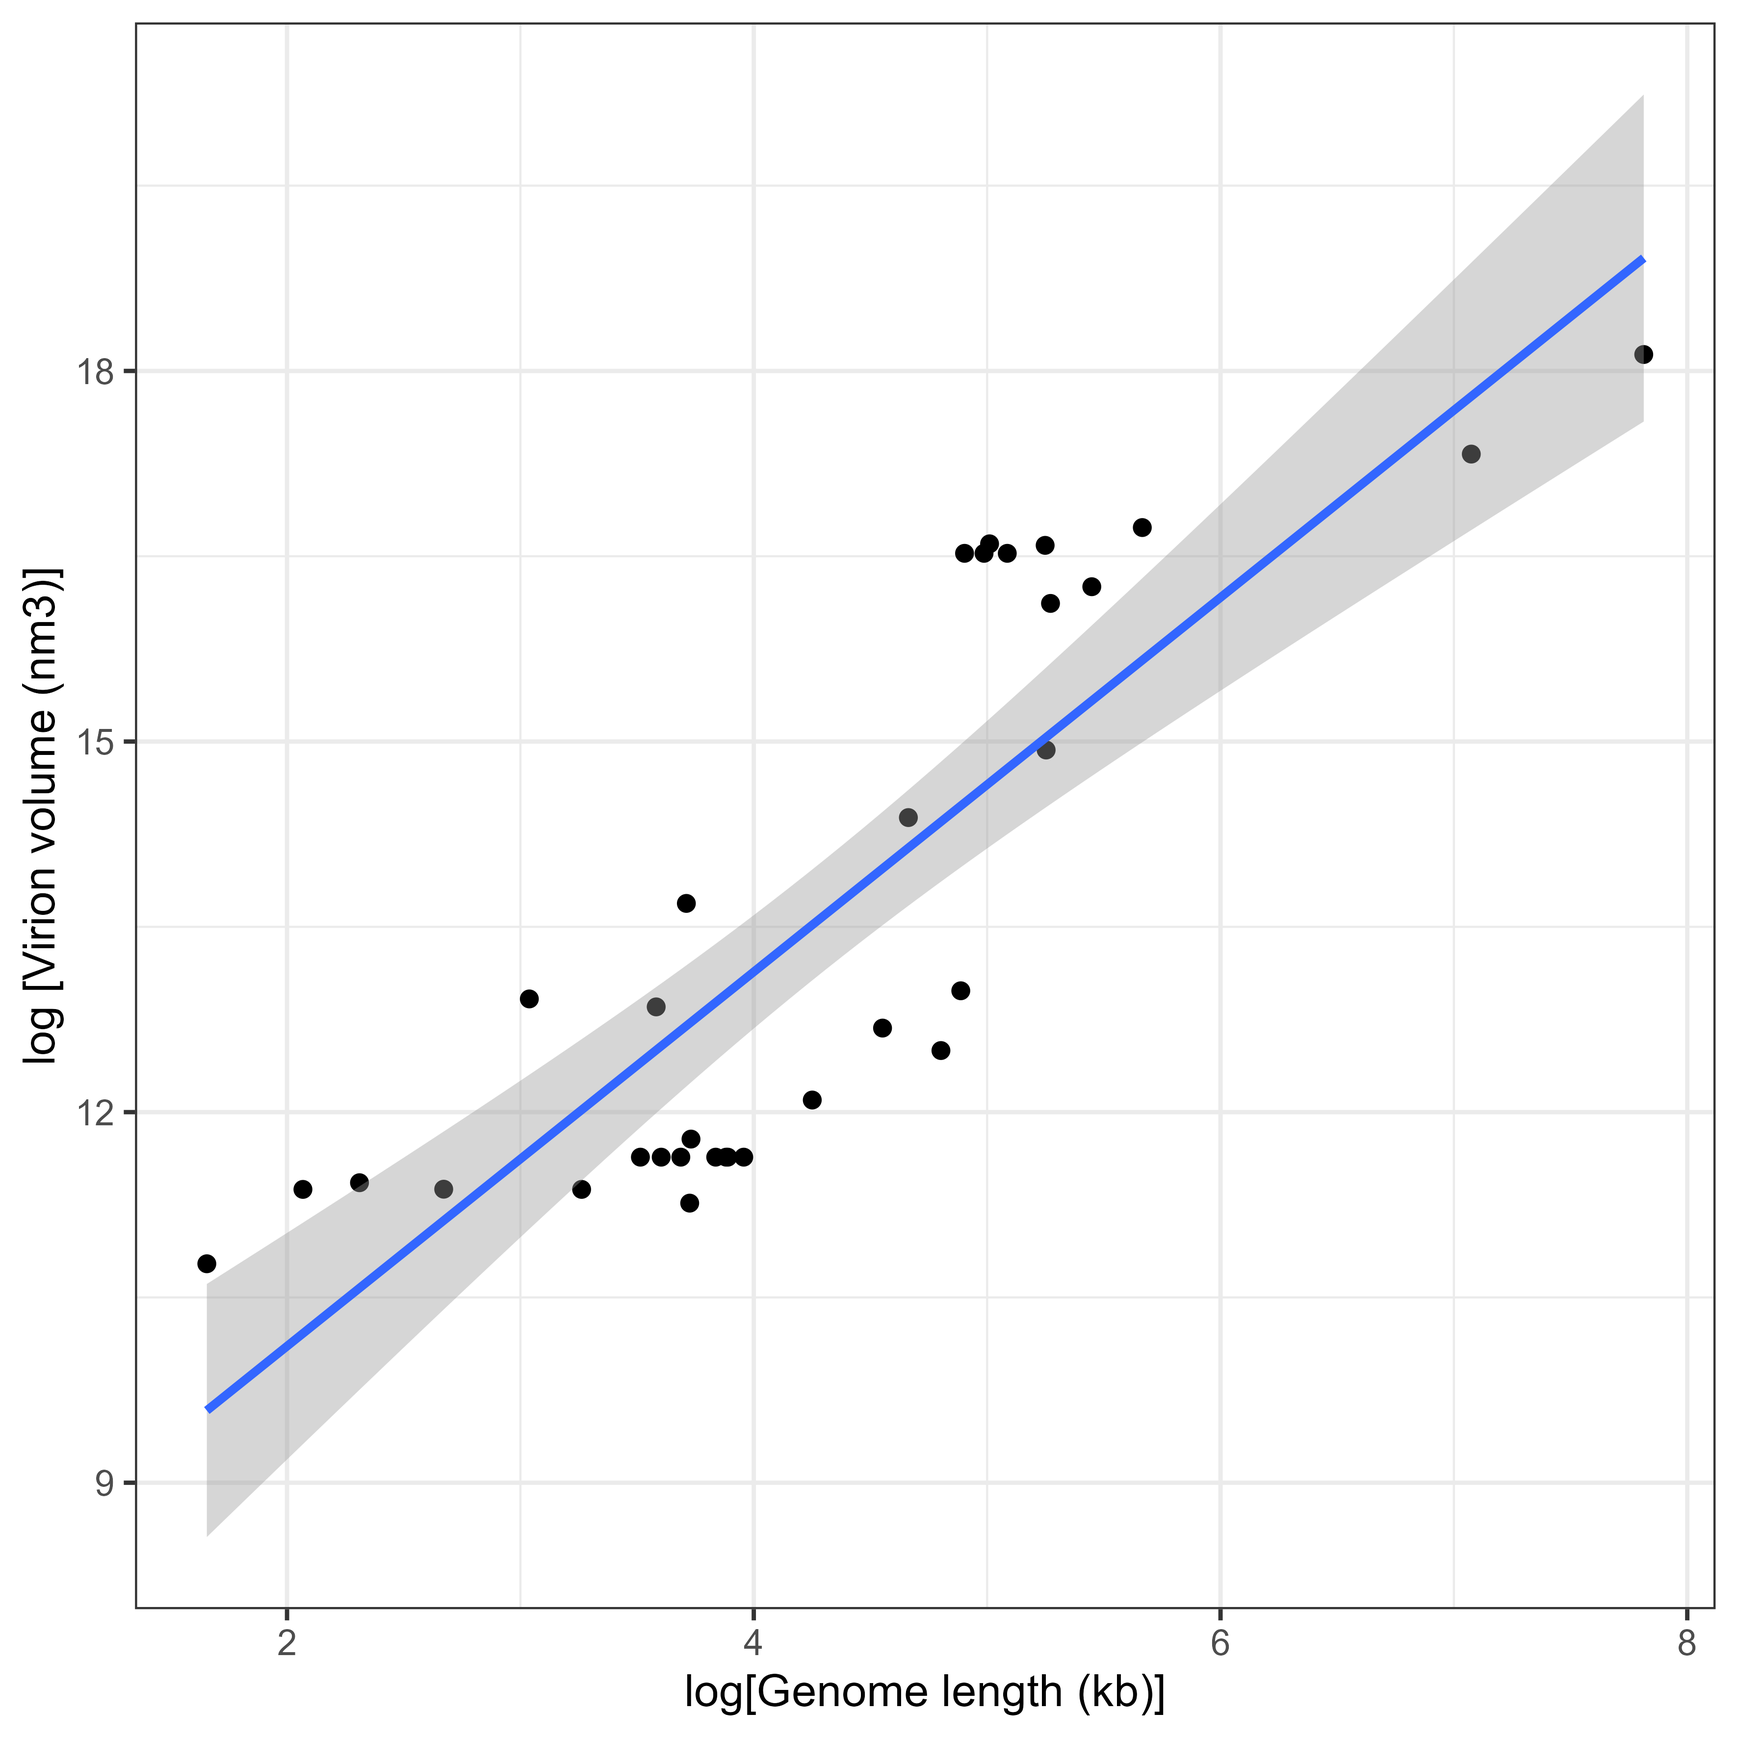
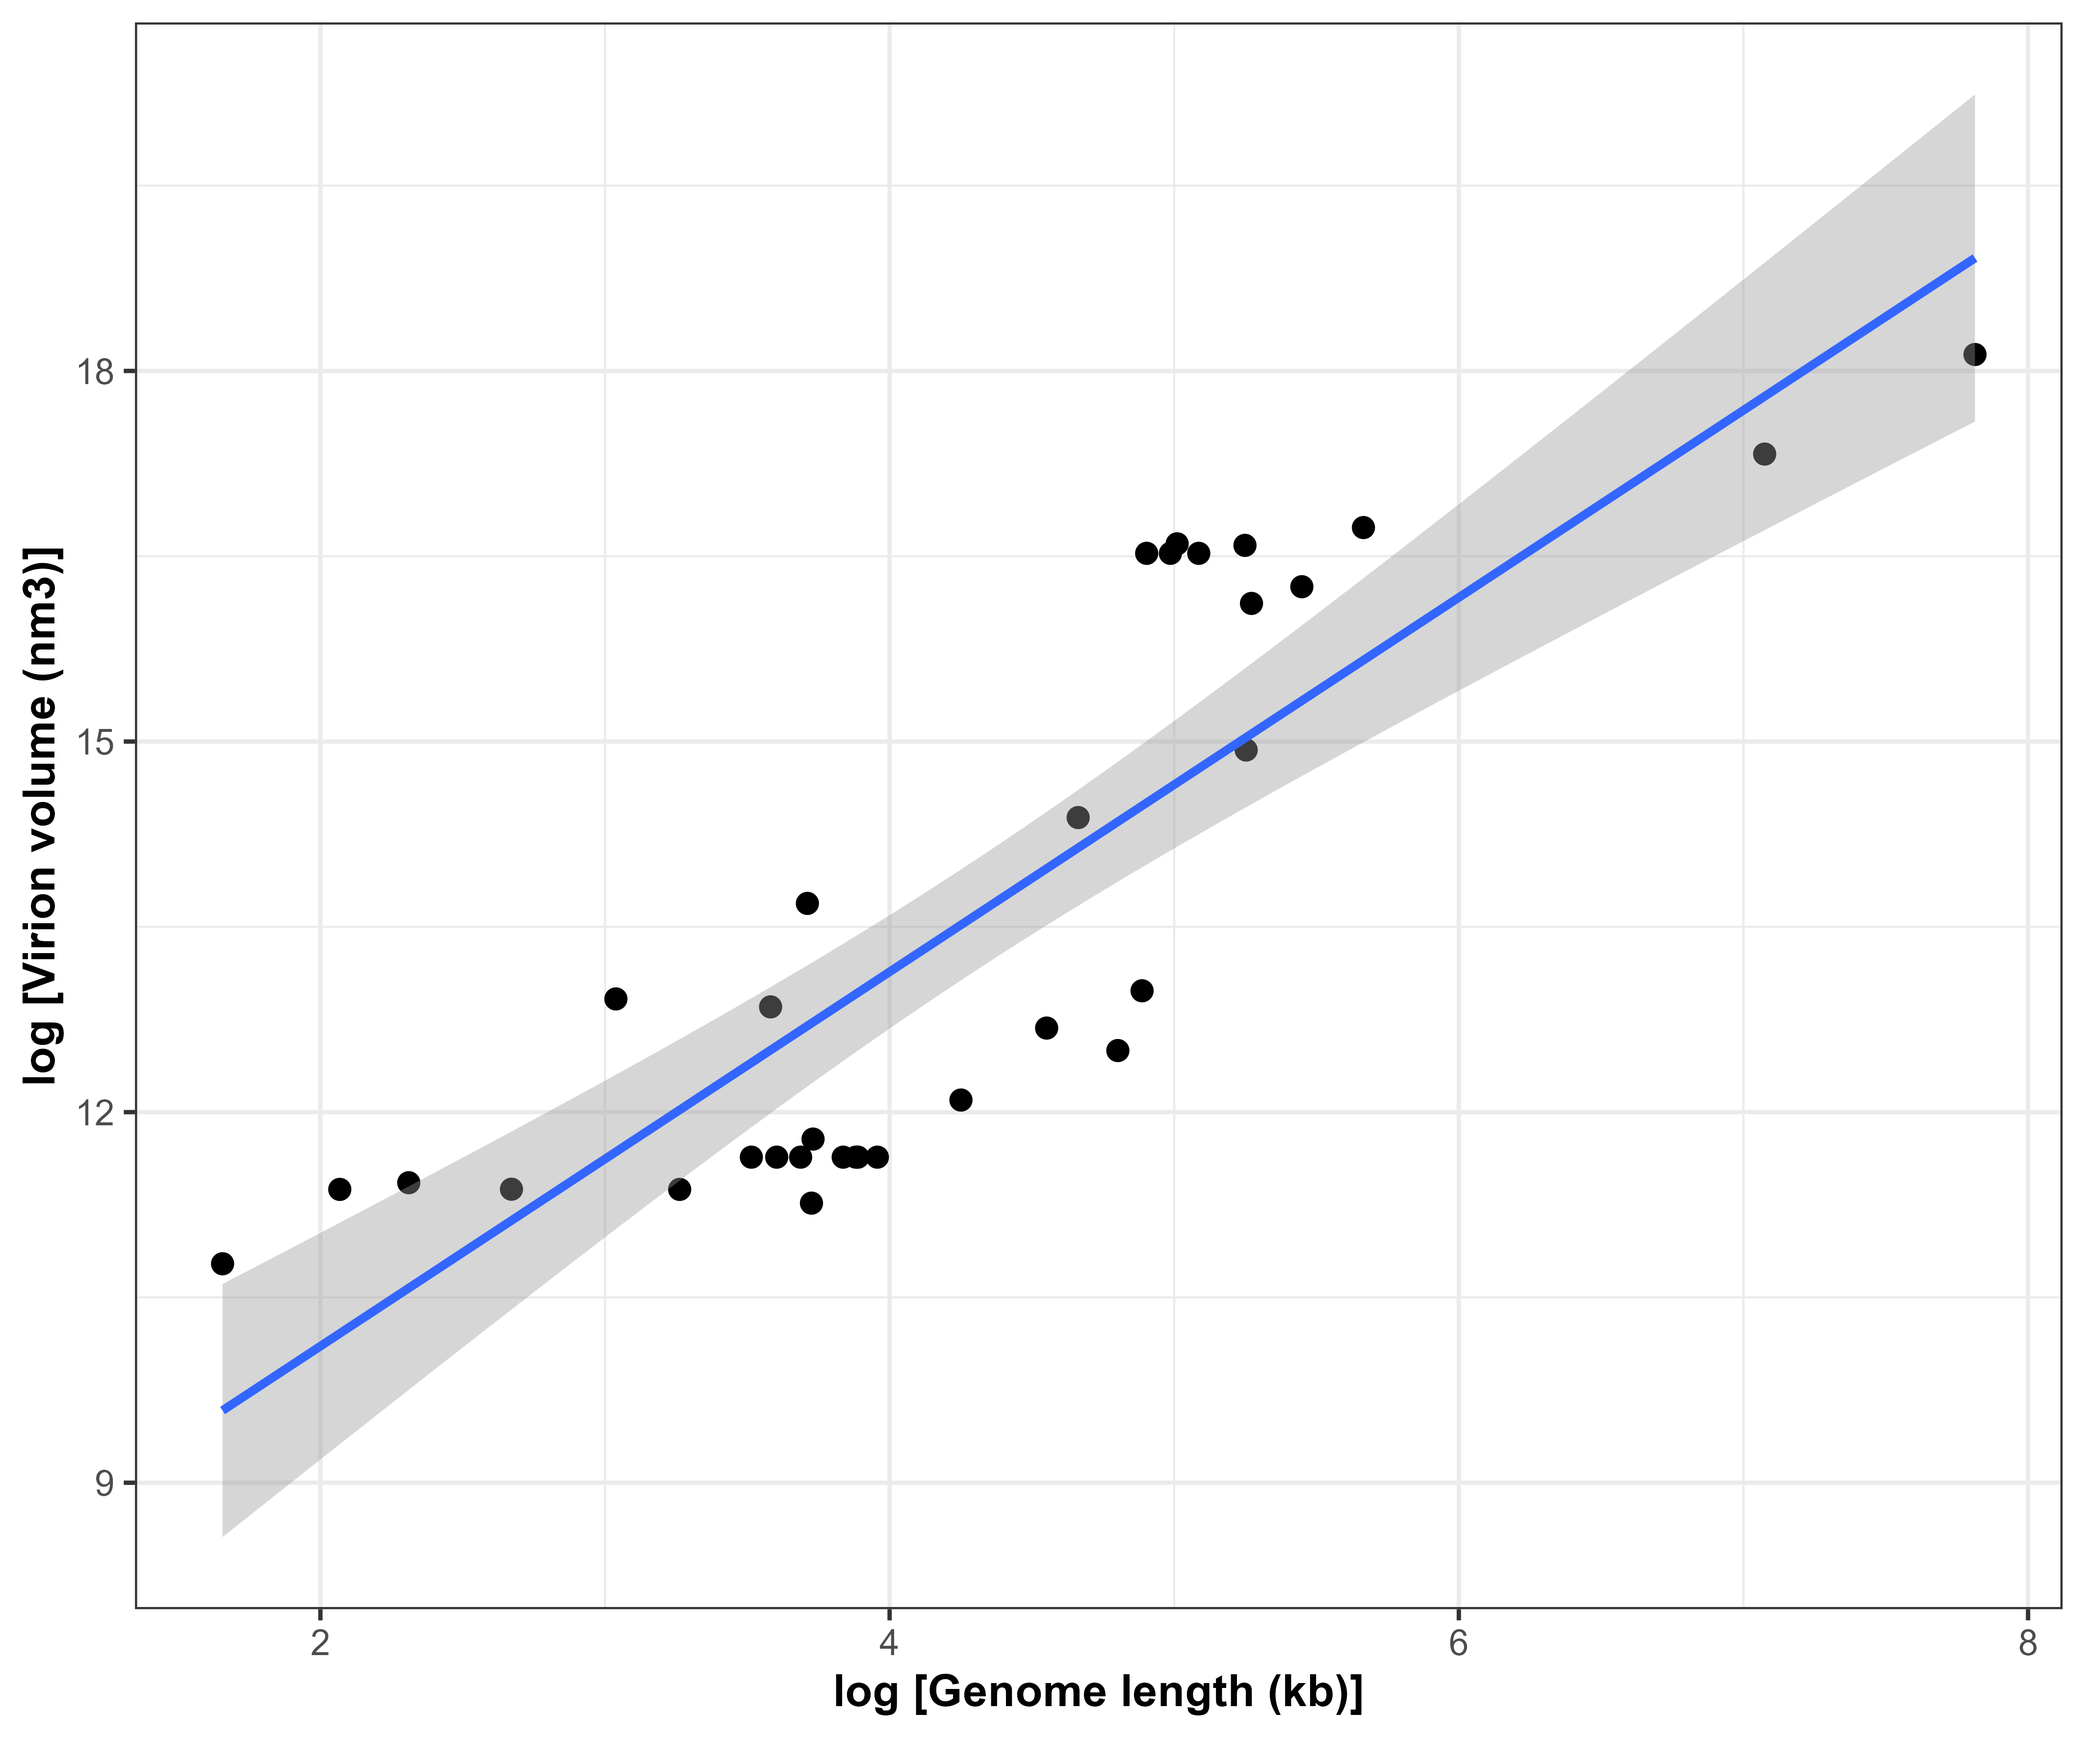
Q5 commit

diff --git a/README.md b/README.md
@@ -1,6 +1,6 @@
 # Reproducible research: version control and R
 
-Questions 1, 2 & 3: 
+Questions 1, 2 & 3: [Linked here](https://github.com/841053/logistic_growth/tree/main/LogisticGrowthProject)
 
 Question 4:
 4.1 What do you observe?
@@ -19,14 +19,21 @@ Wikepedia defines a random seed as 'a number (or vector) used to initialise a ps
 Without a set seed detirmining the psuedorandom outcome, the seed will be set by default states of the computer system (e.g. Time). In situations where reproducibility is crucial then a seed must be set so others can see your results.
 
 4.3 Generate a reproducible simulation of brownian motion.
-<<<<<<< HEAD
-4.4 Show edits made in code
 
-Question 5:
+4.4 Image showing commit
+![Image showing commit changes](https://github.com/karlaashman/reproducible-research_homework/blob/dev/question%204%20commit.jpg)
+
+# Question 5: 
+
 Relationship between virus particle volume and genome length
 
-5.1 How many rows and columns?
+[code found here](https://github.com/841053/reproducible-research_homework/blob/main/question-5-data/question_5_code.R)
 
+5.1 How many rows and columns?
+```{r}
+#Dimensions i.e. number of rows and columns
+dim.data.frame(q5_data)
+```
 There are 33 rows and 13 columns in the table.
 
 5.2 What transformations can you use to fit a linear model to the data? Apply the transformation
@@ -65,29 +72,37 @@ My results match the results for dsDNA in the paper.
 5.4 Write the code to reproduce the figure shown below
 ```{r}
 #plot
-ggplot(q5_data_clean, aes(x=log_genome_length,y=log_virion_volume))+
-  geom_point()+
-  geom_smooth(method = lm)+
-  labs(x="log[Genome length (kb)]", y="log [Virion volume (nm3)]")+
-  theme_bw()
+
+plot<-ggplot(q5_data_clean, aes(x=log_genome_length,y=log_virion_volume))+
+  geom_point(size=2)+
+  geom_smooth(method = lm, size=1)+
+  labs(x="log [Genome length (kb)]", y="log [Virion volume (nm3)]")+
+  theme_bw()+
+  theme(axis.title=element_text(face="bold"))
+
+plot
+
 ```
+[Figure as png](https://github.com/841053/reproducible-research_homework/blob/main/question-5-data/reproduced_figure.png)
+
 5.5 What is the estimated volume of a 300 kb dsDNA virus?
 Using the linear model I can estimate the volume of a 300 kb dsDNA virus using the predict function.
 The estimated volume of a 300kb dsDNA virus under the linear model is 6,698,076nm^3
-=======
-4.4 Image showing commit
-![Image showing commit changes](https://github.com/karlaashman/reproducible-research_homework/blob/dev/question%204%20commit.jpg)
->>>>>>> f042524637346ef321c52bece67f58b0f814cfe9
-
 
 ```{r}
+#5.5 Estimating virus volume
+
+#Linear model
 linear_model_2<-lm(log(virion_volume_nm_a_nm_a_nm)~log(genome_length_kb), q5_data_clean )
 summary(linear_model_2)
 
+#Creating a data.frame with a genome length of 300kb
 genome_300_kb<-data.frame(genome_length_kb=(300))
 
+#Using predict() function to estimate volume for this value
 log_estimated_volume<-predict(linear_model_2, newdata=genome_300_kb)
 
+#Back-transforming the volume to get true volume in nm^3
 estimated_volume<-exp(log_estimated_volume)
 
 print(estimated_volume)
